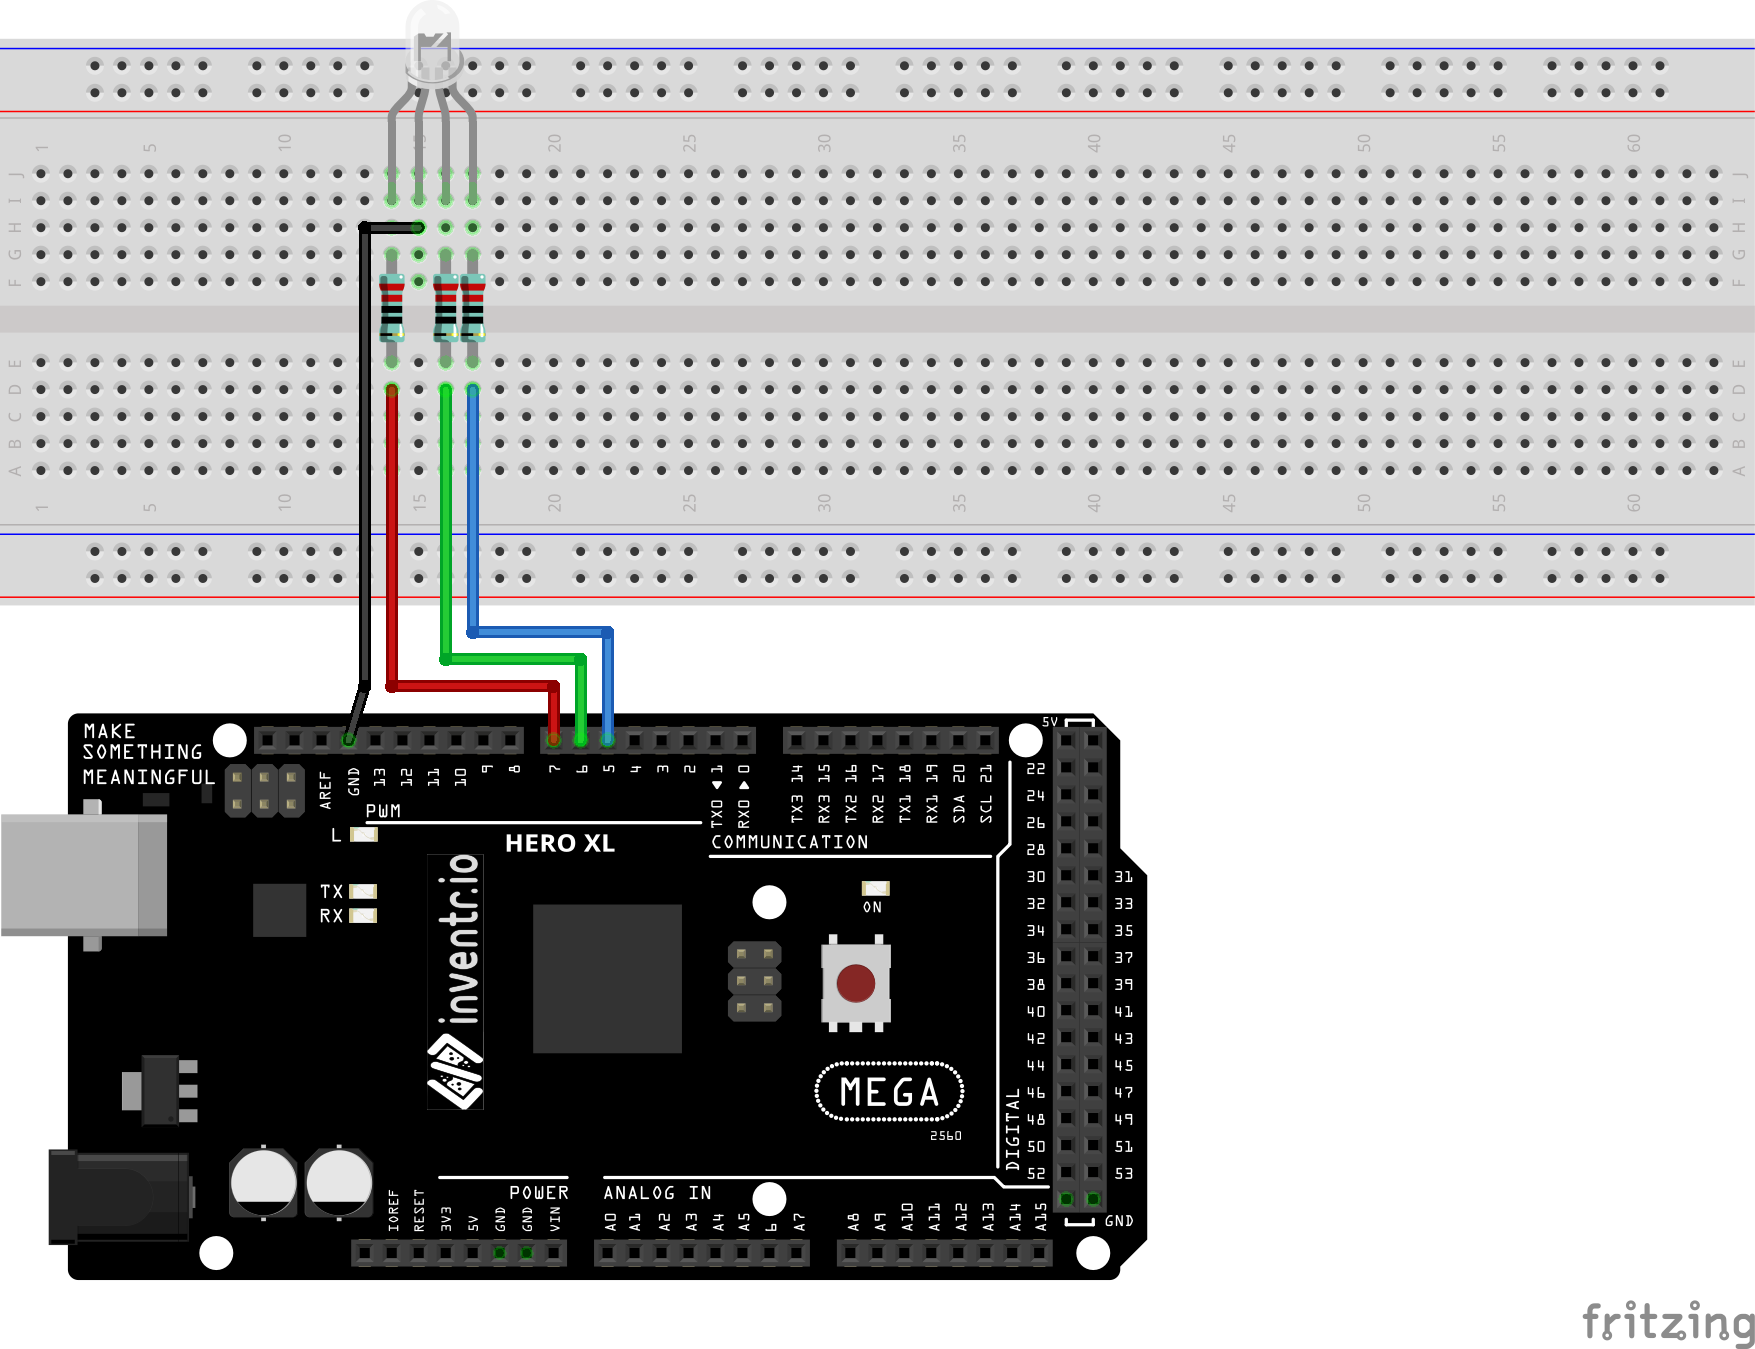
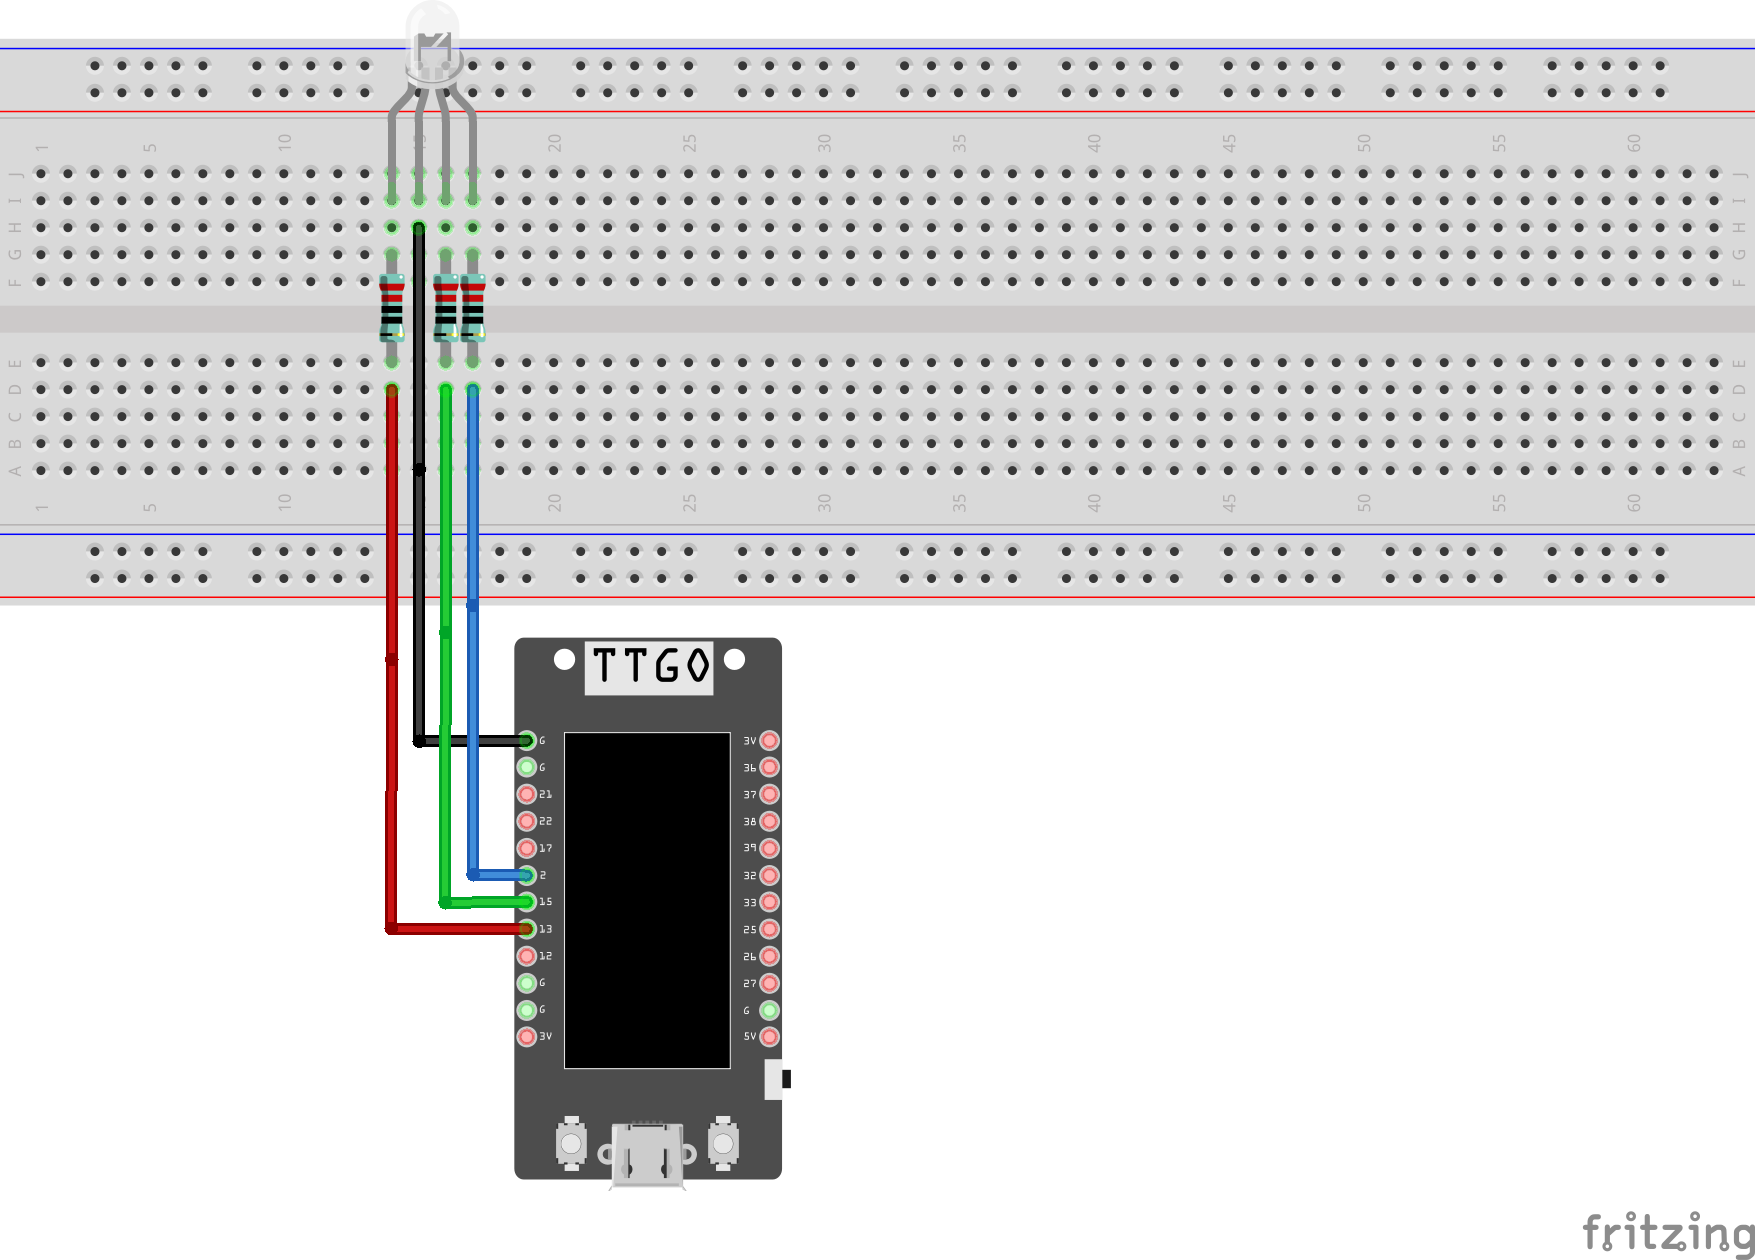
Small fixes to 002 and 004

diff --git a/Getting_Started/ESP32_TTGO_T-Display/004-RGB-LightEmittingDiode/README.md b/Getting_Started/ESP32_TTGO_T-Display/004-RGB-LightEmittingDiode/README.md
@@ -29,10 +29,10 @@ It's important to note that the value of the resistors are important to avoid ov
 ### Wiring
 | Arduino | LED |
 | --- | --- |
-| 7 | RED lead (alone next to GND) |
+| 13 | RED lead (alone next to GND) |
 | GND | common pin (longest) |
-| 6 | GREEN lead (between GND and BLUE) |
-| 5 | BLUE lead (next to GREEN) |
+| 15 | GREEN lead (between GND and BLUE) |
+| 2 | BLUE lead (next to GREEN) |
 
 <img src="RGB-LightEmittingDiode.png" width="350">
 
